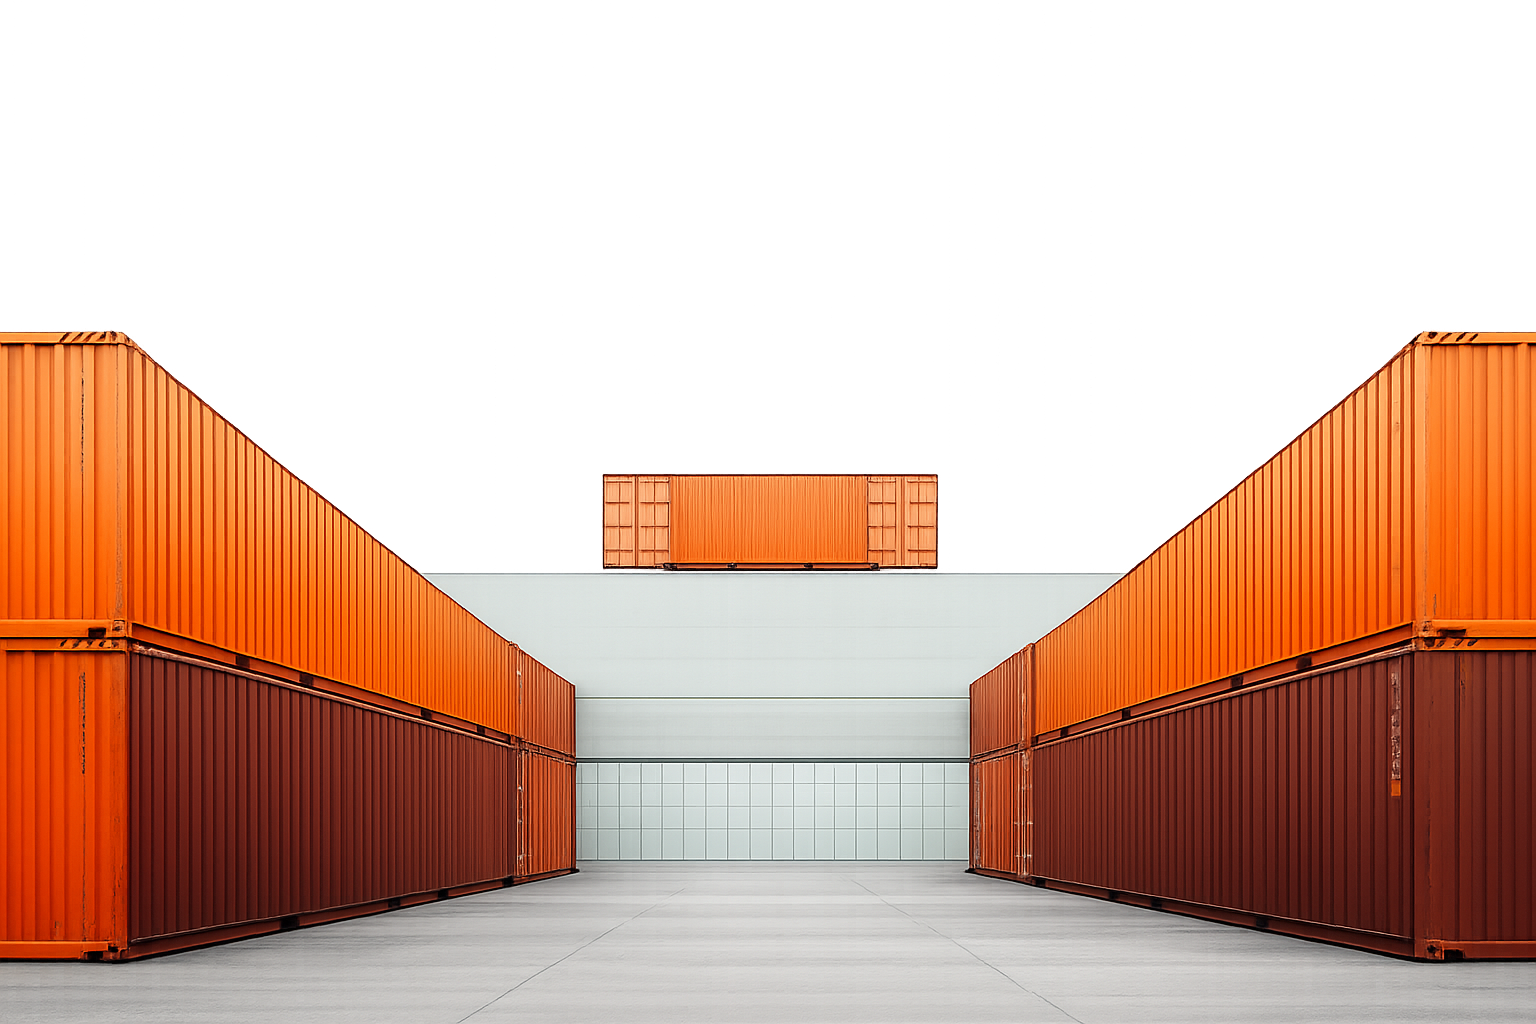
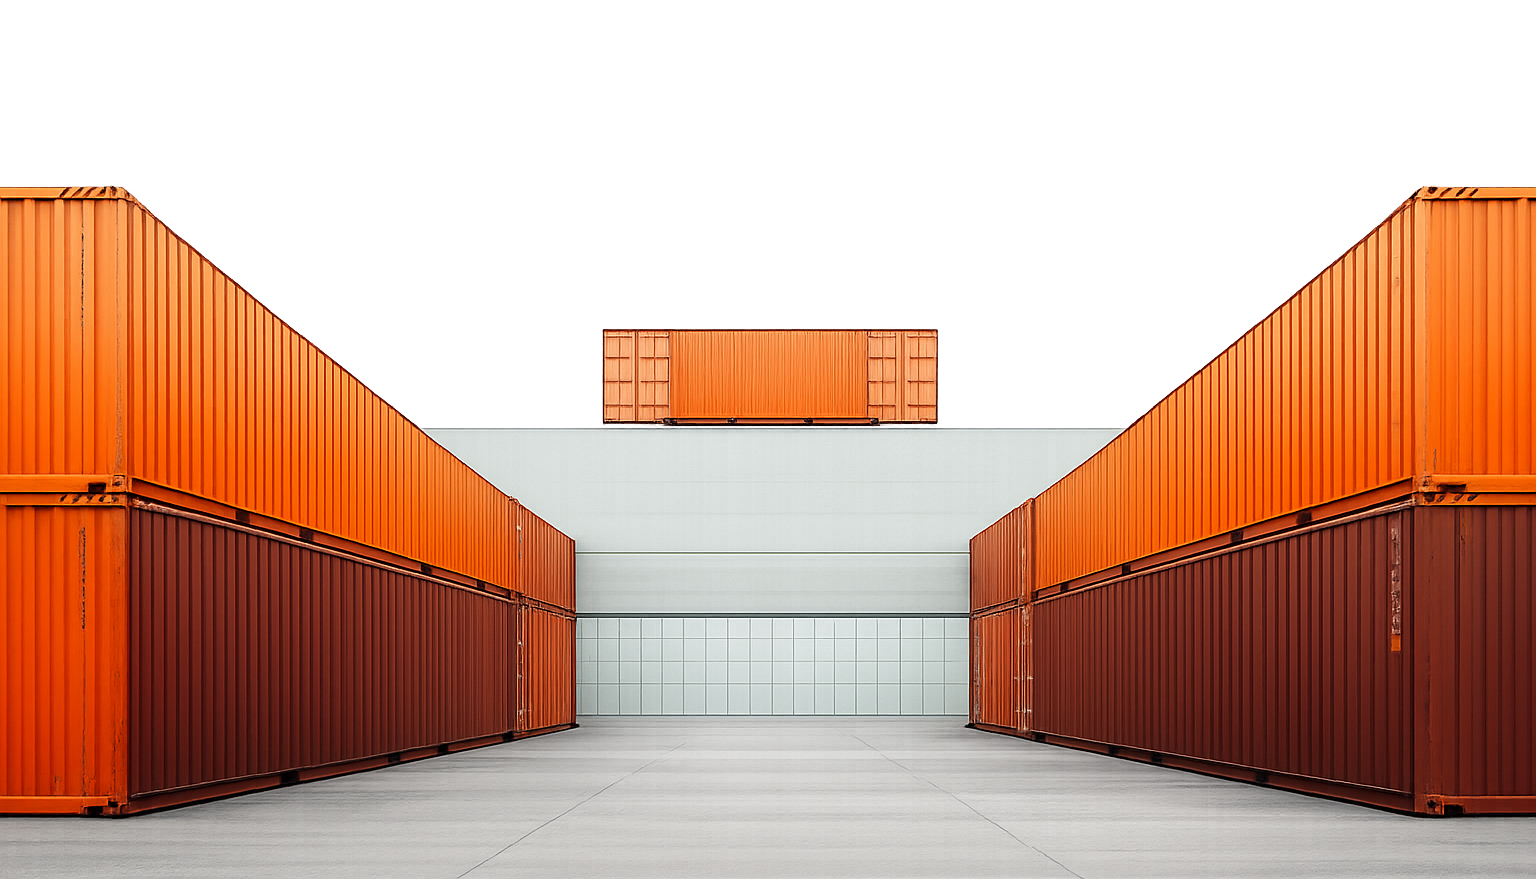
upodated

Changed region(s): [[0.0, 0.215, 1.0, 0.9522], [0.9062, 0.7065, 0.9375, 0.7679]]

diff --git a/index.html b/index.html
@@ -932,17 +932,7 @@
     </div>
   </section>
 
-  <!-- FOOTER -->
-  <footer class="site-footer" id="contact">
-    <div class="footer-brand">Influence For Trading</div>
-    <div style="display:flex;gap:24px;flex-wrap:wrap;justify-content:center;">
-      <a href="#">About</a>
-      <a href="#">Services</a>
-      <a href="#">Contact</a>
-      <a href="mailto:info@influencetrading.com">info@influencetrading.com</a>
-    </div>
-    <div>&copy; 2026 Influence For Trading. All rights reserved.</div>
-  </footer>
+  
 
   <script>
     document.addEventListener('DOMContentLoaded', () => {
